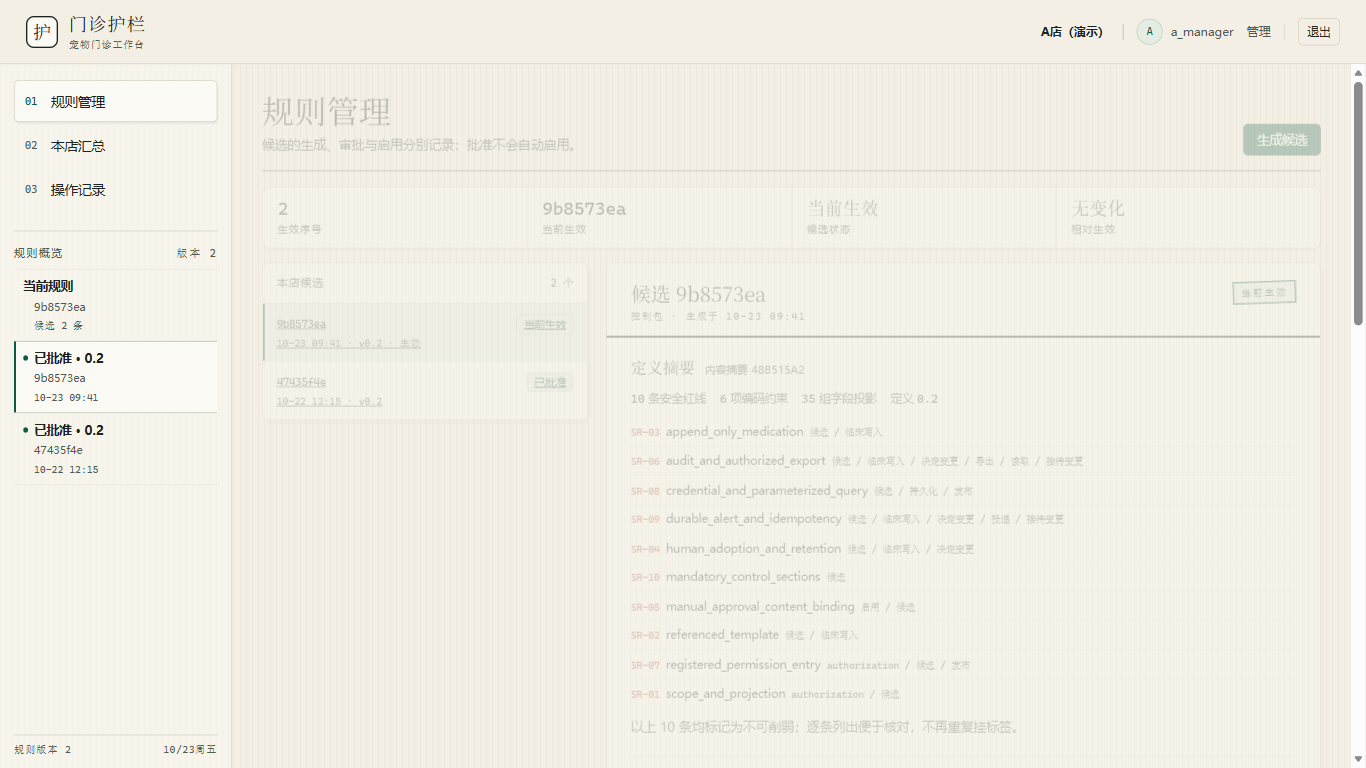
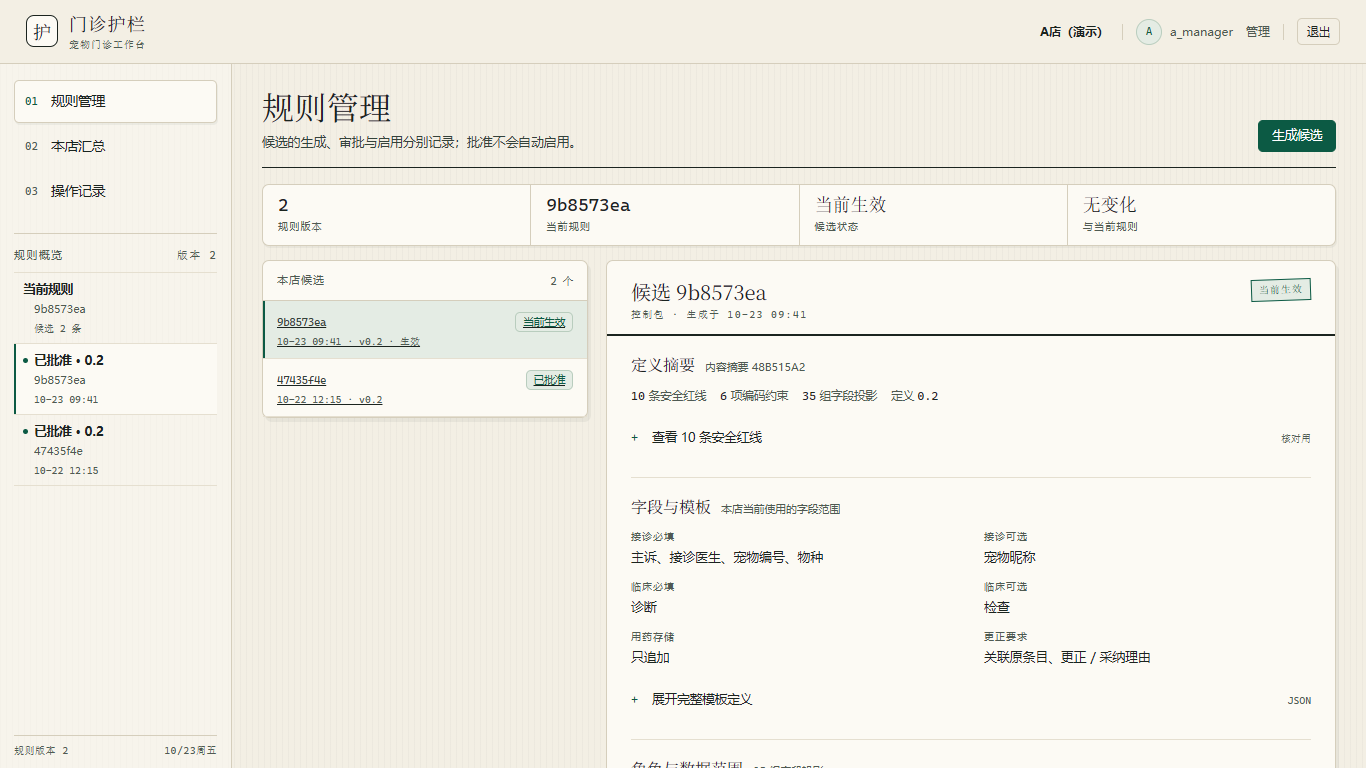
copy: fold rule details and label governance fields

diff --git a/05_系统代码/frontend/assets/app.js b/05_系统代码/frontend/assets/app.js
@@ -102,7 +102,9 @@ const RULE_TEXT = {
 };
 const FIELD_TEXT = {
   diagnosis: '诊断', examination: '检查', reason: '更正 / 采纳理由', amount: '剂量', unit: '单位',
-  drug: '药品', original_entry_ref: '关联原条目', content_digest: '内容摘要', template: '字段模板'
+  drug: '药品', original_entry_ref: '关联原条目', content_digest: '内容摘要', template: '字段模板',
+  complaint: '主诉', doctor_id: '接诊医生', pet_id: '宠物编号', species: '物种', pet_name: '宠物昵称',
+  append_only: '只追加'
 };
 
 /* ---------------- 工具 ---------------- */
@@ -1596,21 +1598,26 @@ function definitionBody(detail) {
         <div class="block-head"><h2>定义摘要</h2><em>内容摘要 ${esc(shortRef(detail.content_version_ref, 8))}</em></div>
         <p class="definition-meta"><span><b>${redlines.length}</b> 条安全红线</span><span><b>${coding.length}</b> 项编码约束</span><span><b>${Object.keys(projections).length}</b> 组字段投影</span><span>定义 <b>${esc(d.version || '—')}</b></span></p>
         ${diffs.length ? `<p class="note">相对当前生效：${diffs.map((k) => chip(DIFF_LABELS[k] || k, 'warn')).join(' ')}</p>` : ''}
-        <ul class="rule-list" style="margin-top:8px">${redlineRows || '<li>未登记安全红线</li>'}</ul>
-        ${redlines.length && redlines.every((r) => r.may_weaken === false) ? `<p class="note">以上 ${redlines.length} 条均标记为不可削弱；逐条列出便于核对，不再重复挂标签。</p>` : ''}
+        <details class="details" style="margin-top:10px">
+          <summary>查看 ${redlines.length} 条安全红线<em>核对用</em></summary>
+          <div class="inner">
+            <ul class="rule-list">${redlineRows || '<li>未登记安全红线</li>'}</ul>
+            ${redlines.length && redlines.every((r) => r.may_weaken === false) ? `<p class="note">以上 ${redlines.length} 条均标记为不可削弱；逐条列出便于核对，不再重复挂标签。</p>` : ''}
+          </div>
+        </details>
       </div>
     </div>
 
     <div class="block">
       <div class="block-body">
-        <div class="block-head"><h2>字段与模板</h2><em>定义由受信任发行资产编译</em></div>
+        <div class="block-head"><h2>字段与模板</h2><em>本店当前使用的字段范围</em></div>
         <div class="fields">
-          <div><dt>接诊必填</dt><dd>${(reception.required || []).map(esc).join('、') || '—'}</dd></div>
-          <div><dt>接诊可选</dt><dd>${(reception.optional || []).map(esc).join('、') || '—'}</dd></div>
-          <div><dt>临床必填</dt><dd>${(clinical.required || []).map(esc).join('、') || '—'}</dd></div>
-          <div><dt>临床可选</dt><dd>${(clinical.optional || []).map(esc).join('、') || '—'}</dd></div>
-          <div><dt>用药存储</dt><dd>${esc((clinical.medication && clinical.medication.storage) || '—')}</dd></div>
-          <div><dt>更正要求</dt><dd>${((clinical.medication && clinical.medication.correction_requires) || []).map(esc).join('、') || '—'}</dd></div>
+          <div><dt>接诊必填</dt><dd>${(reception.required || []).map((f) => esc(FIELD_TEXT[f] || f)).join('、') || '—'}</dd></div>
+          <div><dt>接诊可选</dt><dd>${(reception.optional || []).map((f) => esc(FIELD_TEXT[f] || f)).join('、') || '—'}</dd></div>
+          <div><dt>临床必填</dt><dd>${(clinical.required || []).map((f) => esc(FIELD_TEXT[f] || f)).join('、') || '—'}</dd></div>
+          <div><dt>临床可选</dt><dd>${(clinical.optional || []).map((f) => esc(FIELD_TEXT[f] || f)).join('、') || '—'}</dd></div>
+          <div><dt>用药存储</dt><dd>${esc(FIELD_TEXT[(clinical.medication && clinical.medication.storage)] || (clinical.medication && clinical.medication.storage) || '—')}</dd></div>
+          <div><dt>更正要求</dt><dd>${((clinical.medication && clinical.medication.correction_requires) || []).map((f) => esc(FIELD_TEXT[f] || f)).join('、') || '—'}</dd></div>
         </div>
         <details class="details" style="margin-top:10px"><summary>展开完整模板定义<em>JSON</em></summary><div class="inner"><pre class="json">${esc(JSON.stringify(templates, null, 2))}</pre></div></details>
       </div>
@@ -1695,10 +1702,10 @@ async function viewGovernance(view, id) {
       <div class="head-side"><div class="head-actions"><button class="btn primary" data-action="generate-candidate">生成候选</button></div></div>
     </header>
     <div class="stat-strip">
-      <div class="stat"><b>${esc(list.generation ?? '—')}</b><span>生效序号</span></div>
-      <div class="stat"><b>${list.active_candidate_ref ? esc(shortRef(list.active_candidate_ref, 8)) : '—'}</b><span>当前生效</span></div>
+      <div class="stat"><b>${esc(list.generation ?? '—')}</b><span>规则版本</span></div>
+      <div class="stat"><b>${list.active_candidate_ref ? esc(shortRef(list.active_candidate_ref, 8)) : '—'}</b><span>当前规则</span></div>
       <div class="stat"><b>${esc(displayState)}</b><span>候选状态</span></div>
-      <div class="stat"><b>${(detail.definition_differences || []).length ? detail.definition_differences.length + ' 项' : '无变化'}</b><span>相对生效</span></div>
+      <div class="stat"><b>${(detail.definition_differences || []).length ? detail.definition_differences.length + ' 项' : '无变化'}</b><span>与当前规则</span></div>
     </div>
     <div class="gov-grid">
       <aside class="sheet">
